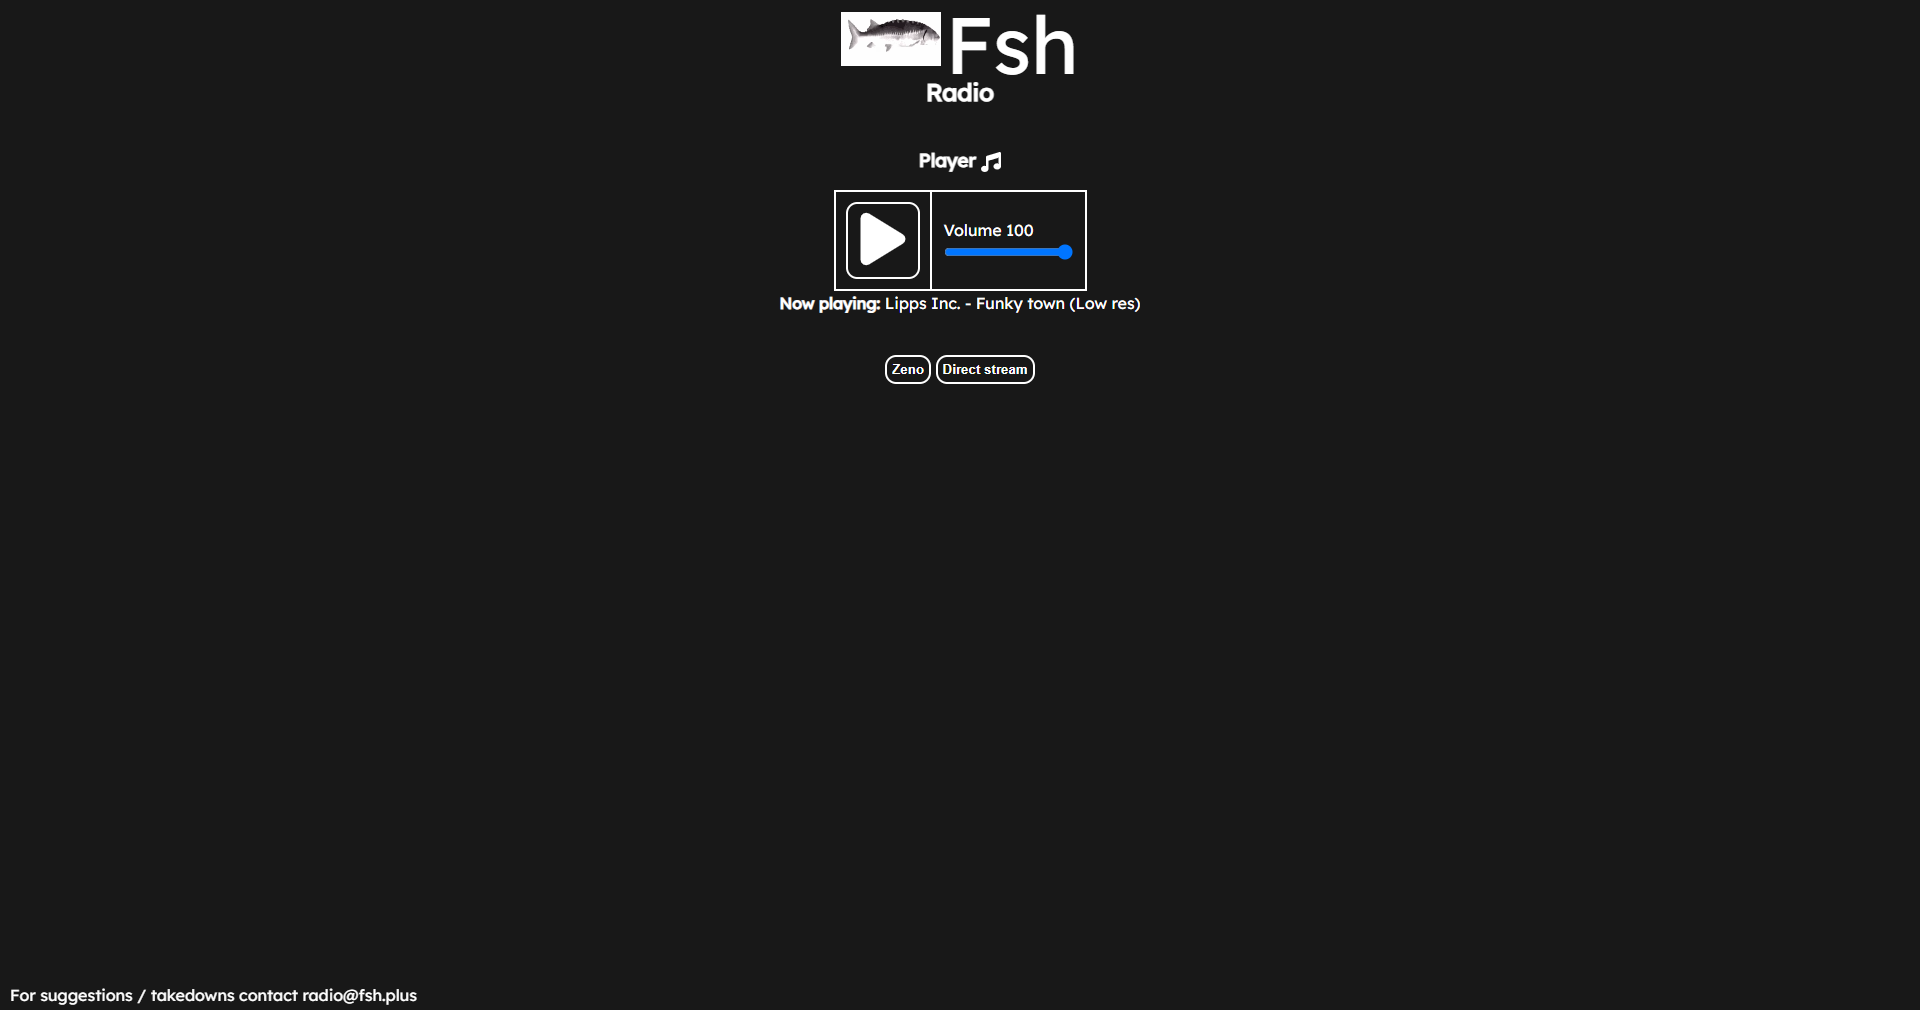
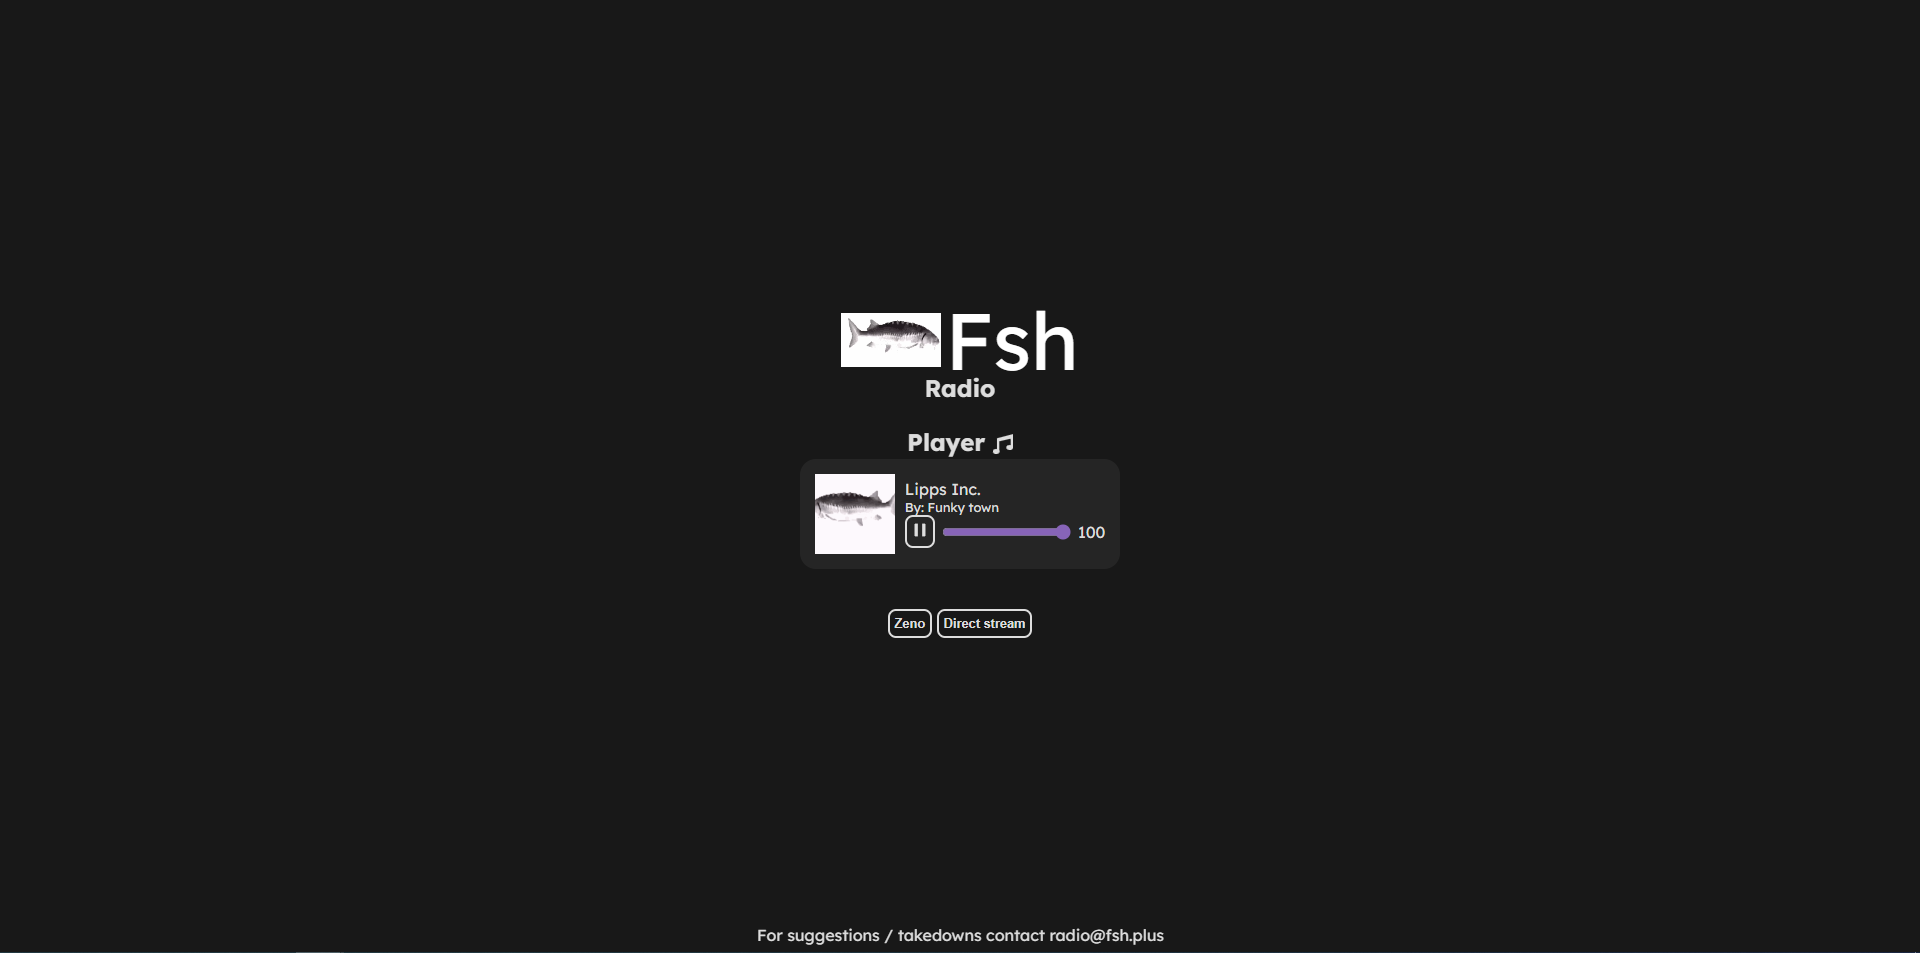
Final fixes

diff --git a/media/style.css b/media/style.css
@@ -18,7 +18,10 @@ body {
   border-radius: 1rem;
   background-color: var(--bg-2);
 }
-#font-author {
+#track-cover {
+  border-radius: 0.5rem;
+}
+#track-author {
   font-size: 80%;
 }
 .player > span {
